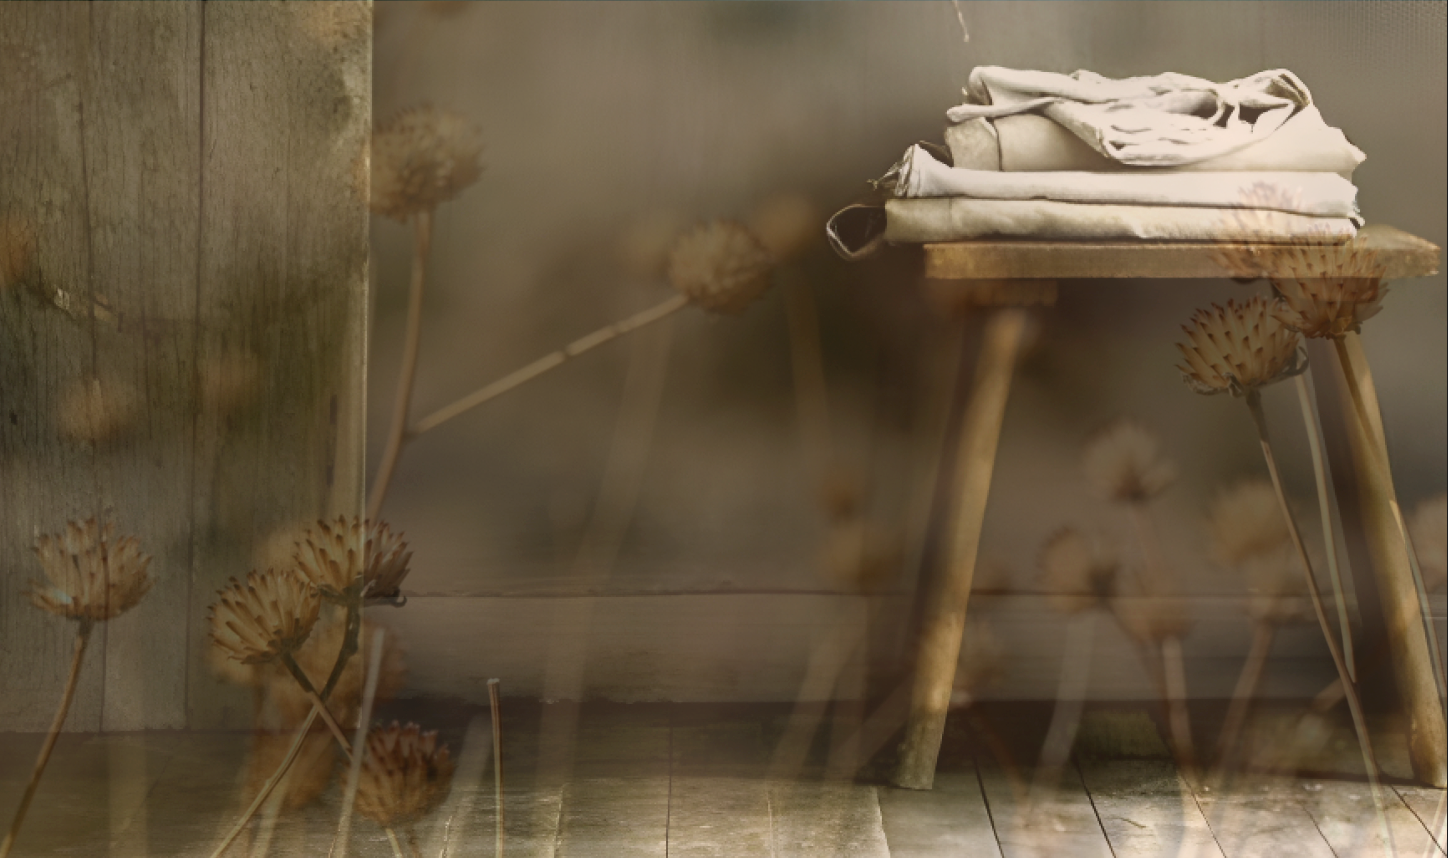
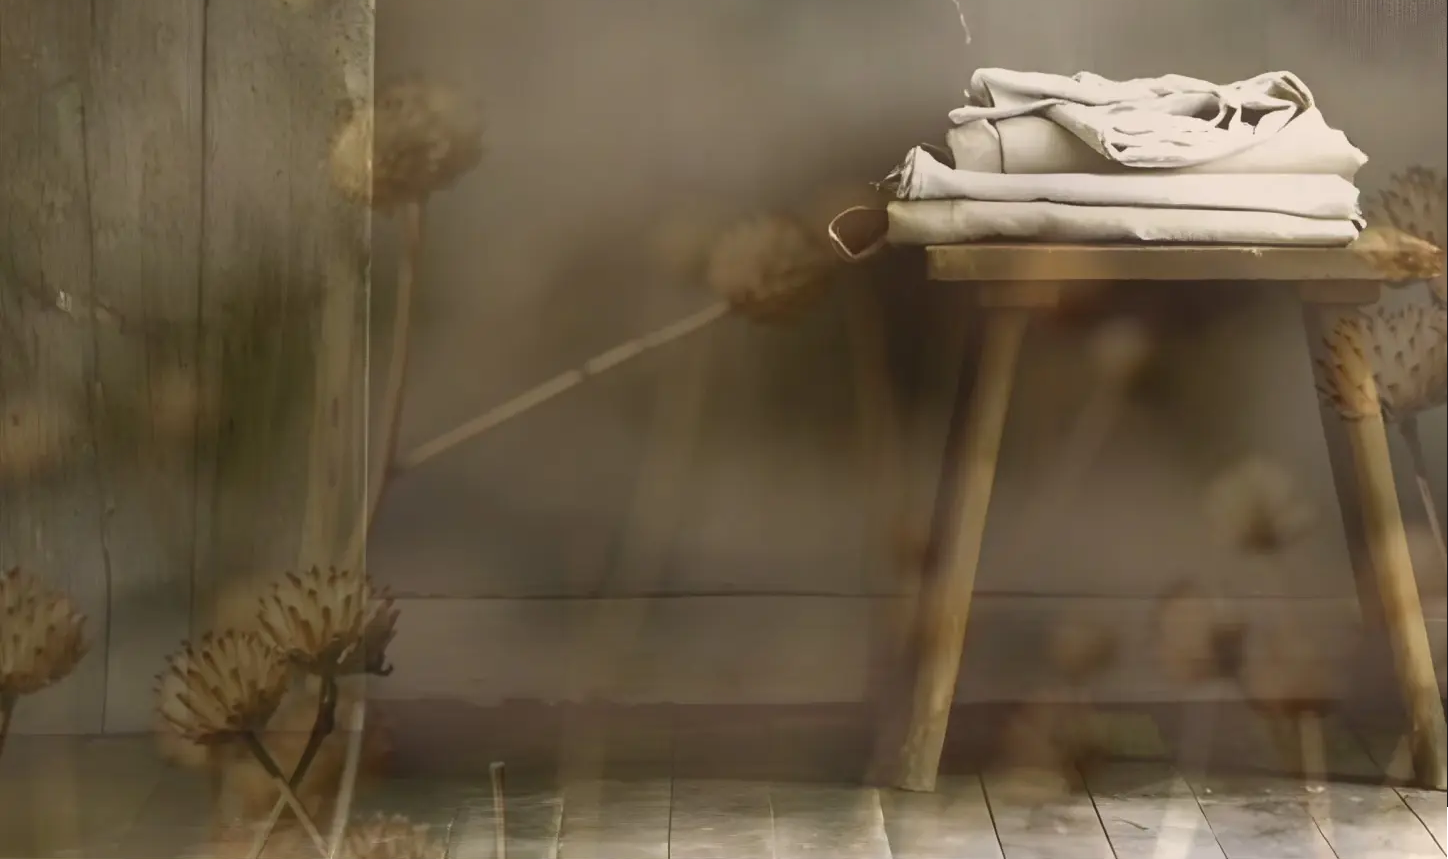
Updates

diff --git a/src/pages/index.js b/src/pages/index.js
@@ -11,140 +11,154 @@ export default function Home() {
   return (
     <>
       <div className="antialiased bg-black">
-        <div className="mx-auto text-white bg-[#dbd4c2] text-opacity-90 max-w-[1447px]">
-          <div
-            className="px-4 py-10 text-center bg-no-repeat bg-cover"
-            style={{
-              backgroundImage: "url(/images/new_landing/hero_compressed.webp)",
-            }}
-          >
-            <h1 className="mt-32 text-6xl tracking-widest md:mt-32 md:text-9xl leading-1">
-              MOSS
-            </h1>
-            <p className="pb-10 text-xl font-light md:-mt-2">
-              co-working + events
-            </p>
-            <h1 className="text-2xl tracking-widest mb-44 md:mb-64 md:pb-24 md:text-3xl">
-              in the heart of venice
-            </h1>
-
-            <div className="grid md:grid-cols-2">
-              <div className="hidden space-y-24 text-left md:block">
+        <div className="mx-auto text-white   max-w-[1447px]">
+          <div className="relative overflow-hidden">
+            <div className="relative z-[1] px-4  ">
+              <div className="aspect-w-[1447] aspect-h-[1340]  text-center">
                 <div>
-                  <h1 className="text-4xl ">OUR SPACE</h1>
-                </div>
-                <div>
-                  <p className="text-3xl">Bio-architecture</p>
-                  <p className="text-xl font-light ">
-                    live + work in communion with nature
-                  </p>
-                </div>
-                <div>
-                  <p className="text-3xl">Wabi Sabi</p>
-                  <p className="text-xl font-light">
-                    find beauty in the perfectly imperfect
-                  </p>
-                </div>
-                <div>
-                  <p className="text-3xl">Minimalism</p>
-                  <p className="text-xl font-light">clarity of mind + peace</p>
-                </div>
-              </div>
-              <div className="flex justify-end">
-                <div className="max-w-2xl text-left md:mt-5">
-                  <h1 className="text-2xl md:text-4xl">YOU ARE INVITED ⋆</h1>
-                  <div>
-                    <h1 className="mt-3 text-xl md:text-4xl drop-shadow-title">
-                      co-working by day | event space by night
+                  <div className="flex flex-col items-center justify-center h-[50%] ">
+                    <h1 className="text-6xl tracking-widest md:text-9xl leading-1">
+                      MOSS
+                    </h1>
+                    <p className="pb-10 text-xl font-light md:-mt-2">
+                      co-working + events
+                    </p>
+                    <h1 className="text-2xl tracking-widest md:text-3xl">
+                      in the heart of venice
                     </h1>
                   </div>
+
+                  <div className="grid md:grid-cols-2 absolute bottom-[0%] left-0 w-full">
+                    <div className="hidden space-y-20 text-left md:block md:max-w-[300px]">
+                      <div>
+                        <h1 className="text-4xl ">OUR SPACE</h1>
+                      </div>
+                      <div>
+                        <p className="text-3xl">Bio-architecture</p>
+                        <p className="text-xl font-light ">
+                          live + work in communion with nature
+                        </p>
+                      </div>
+                      <div>
+                        <p className="text-3xl">Wabi Sabi</p>
+                        <p className="text-xl font-light">
+                          find beauty in the perfectly imperfect
+                        </p>
+                      </div>
+                      <div>
+                        <p className="text-3xl">Minimalism</p>
+                        <p className="text-xl font-light">
+                          clarity of mind + peace
+                        </p>
+                      </div>
+                    </div>
+                    <div className="flex justify-end">
+                      <div className="max-w-2xl text-left md:mt-5">
+                        <h1 className="text-2xl md:text-4xl">
+                          YOU ARE INVITED ⋆
+                        </h1>
+                        <div>
+                          <h1 className="mt-3 text-xl md:text-4xl drop-shadow-title">
+                            co-working by day | event space by night
+                          </h1>
+                        </div>
+                        <div>
+                          <p className="mt-10 text-xl font-light leading-normal md:mb-24 md:mt-16 md:text-3xl">
+                            MOSS is a place for leaders, technologists,
+                            creators, artists, writers, and healers to explore,
+                            create, and grow together.
+                          </p>
+                        </div>
+                      </div>
+                    </div>
+                  </div>
+
+                  <div className="flex justify-center mt-10 md:mt-[-4rem] absolute bottom-[0%] left-0 w-full">
+                    <a
+                      href="https://buy.stripe.com/test_7sIeW8g7t6VP17afYY"
+                      className="bg-beige-500 hover:bg-beige-700 text-white py-5 px-8 rounded-3.5xl tracking-tight"
+                    >
+                      <p className="text-2xl drop-shadow-title">
+                        Become a Founding Member
+                      </p>
+                    </a>
+                  </div>
+                </div>
+              </div>
+            </div>
+
+            <div className="bg-bottom bg-cover md:bg-center">
+              <div className="px-4 py-16 bg-top bg-cover lg:min-h-min md:py-0 lg:px-0">
+                <img
+                  src="/images/section-2.png"
+                  className="hidden w-full opacity-0 md:block "
+                />
+                <div className="space-y-8 text-left md:hidden md:my-0 my-[20%]">
                   <div>
-                    <p className="mt-10 text-xl font-light leading-normal md:mb-24 md:mt-16 md:text-3xl">
-                      MOSS is a place for leaders, technologists, creators,
-                      artists, writers, and healers to explore, create, and grow
-                      together.
+                    <h1 className="text-3xl font-semibold">OUR SPACE</h1>
+                  </div>
+                  <div>
+                    <p className="text-2xl">Bio-architecture</p>
+                    <p className="text-xl font-light ">
+                      live + work in communion with nature
+                    </p>
+                  </div>
+                  <div>
+                    <p className="text-2xl">Wabi Sabi</p>
+                    <p className="text-xl font-light">
+                      find beauty in the perfectly imperfect
+                    </p>
+                  </div>
+                  <div>
+                    <p className="text-2xl">Minimalism</p>
+                    <p className="text-xl font-light">
+                      clarity of mind + peace
                     </p>
                   </div>
                 </div>
               </div>
-            </div>
 
-            <div className="flex justify-center mt-10 md:mt-[-3.6rem]">
-              <a
-                href="https://buy.stripe.com/test_7sIeW8g7t6VP17afYY"
-                className="bg-beige-500 hover:bg-beige-700 text-white py-5 px-8 rounded-3.5xl tracking-tight"
-              >
-                <p className="text-2xl drop-shadow-title">
-                  Become a Founding Member
-                </p>
-              </a>
-            </div>
-          </div>
-
-          <div
-            className="bg-bottom bg-cover md:bg-center"
-            style={{
-              backgroundImage: "url(/images/section-bg.png)",
-            }}
-          >
-            <div className="px-4 py-16 bg-top bg-cover lg:min-h-min md:py-0 lg:px-0">
-              <img
-                src="/images/section-2.png"
-                className="hidden w-full opacity-0 md:block"
-              />
-              <div className="space-y-8 text-left md:hidden md:my-0 my-[20%]">
-                <div>
-                  <h1 className="text-3xl font-semibold">OUR SPACE</h1>
-                </div>
-                <div>
-                  <p className="text-2xl">Bio-architecture</p>
-                  <p className="text-xl font-light ">
-                    live + work in communion with nature
-                  </p>
-                </div>
-                <div>
-                  <p className="text-2xl">Wabi Sabi</p>
-                  <p className="text-xl font-light">
-                    find beauty in the perfectly imperfect
-                  </p>
-                </div>
-                <div>
-                  <p className="text-2xl">Minimalism</p>
-                  <p className="text-xl font-light">clarity of mind + peace</p>
-                </div>
-              </div>
-            </div>
-
-            <div className="px-4 py-20 bg-bottom bg-cover bg-opacity-[.75] lg:py-36 lg:px-0 relative z-[2] shadow-md">
-              <div className="block max-w-5xl mx-auto lg:px-10 lg:py-16 lg:bg-brown lg:bg-opacity-70">
-                <div className="grid gap-10 md:grid-cols-2 md:gap-0">
-                  <div className="p-8 text-center md:text-left lg:bg-transparent bg-brown bg-opacity-70 lg:bg-opacity-0 lg:p-0">
-                    <h2 className="mb-5 text-2xl leading-normal md:text-4xl drop-shadow-title">
-                      MOSS WELLNESS OPTIONS
-                    </h2>
-                    <ul className="space-y-1 text-xl leading-normal list-none md:text-3xl drop-shadow-title">
-                      <li>cozy lofts</li>
-                      <li>bicycle storage</li>
-                      <li>tea + coffee bar</li>
-                      <li>recording studio</li>
-                      <li>rooftop garden + patio</li>
-                    </ul>
-                  </div>
-                  <div className="p-8 text-center md:text-left lg:bg-transparent bg-brown bg-opacity-70 lg:p-0">
-                    <h2 className="mb-5 text-2xl leading-normal md:text-4xl drop-shadow-title">
-                      MOSS OFFERINGS
-                    </h2>
-                    <ul className="space-y-1 text-xl leading-normal list-none md:text-3xl drop-shadow-title">
-                      <li>nap pod room</li>
-                      <li>no-tech tea time</li>
-                      <li>red light therapy</li>
-                      <li>meditation studio</li>
-                      <li>sauna + cold plunge</li>
-                    </ul>
+              <div className="px-4 py-20 bg-bottom bg-cover  lg:py-[10.4%] lg:px-0 relative z-[2] shadow-md">
+                <div className="block max-w-5xl mx-auto lg:px-10 lg:py-16 lg:bg-brown lg:bg-opacity-70">
+                  <div className="grid gap-10 md:grid-cols-2 md:gap-0">
+                    <div className="p-8 text-center md:text-left lg:bg-transparent bg-brown bg-opacity-70 lg:bg-opacity-0 lg:p-0">
+                      <h2 className="mb-5 text-2xl leading-normal md:text-4xl drop-shadow-title">
+                        MOSS WELLNESS OPTIONS
+                      </h2>
+                      <ul className="space-y-1 text-xl leading-normal list-none md:text-3xl drop-shadow-title">
+                        <li>cozy lofts</li>
+                        <li>bicycle storage</li>
+                        <li>tea + coffee bar</li>
+                        <li>recording studio</li>
+                        <li>rooftop garden + patio</li>
+                      </ul>
+                    </div>
+                    <div className="p-8 text-center md:text-left lg:bg-transparent bg-brown bg-opacity-70 lg:p-0">
+                      <h2 className="mb-5 text-2xl leading-normal md:text-4xl drop-shadow-title">
+                        MOSS OFFERINGS
+                      </h2>
+                      <ul className="space-y-1 text-xl leading-normal list-none md:text-3xl drop-shadow-title">
+                        <li>nap pod room</li>
+                        <li>no-tech tea time</li>
+                        <li>red light therapy</li>
+                        <li>meditation studio</li>
+                        <li>sauna + cold plunge</li>
+                      </ul>
+                    </div>
                   </div>
                 </div>
               </div>
             </div>
+            <img
+              src="/images/main-bg.jpg"
+              alt=""
+              className="absolute top-0 left-0 hidden w-full transform -translate-x-1/2 left-1/2 lg:block"
+            />
+            <img
+              src="/images/main-bg-mobile.jpg"
+              alt=""
+              className="absolute top-0 left-0 w-full min-w-[1024px] left-1/2 transform -translate-x-1/2 lg:hidden block "
+            />
           </div>
 
           <div className="px-4 py-16 text-xl text-center md:p-12 md:text-2xl text-offwhite bg-green ">

diff --git a/tailwind.config.js b/tailwind.config.js
@@ -16,5 +16,5 @@ module.exports = {
       },
     },
   },
-  plugins: [],
+  plugins: [require("@tailwindcss/aspect-ratio")],
 };
